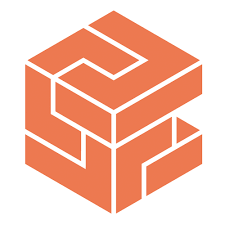
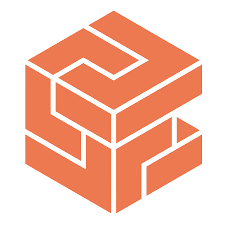
Removi o bg do pin e ajustei o mapa

diff --git a/components/Map/index.js b/components/Map/index.js
@@ -19,7 +19,7 @@ export default function Map() {
         iconUrl: "/pin.png", iconSize: [25, 25], iconAnchor: [12, 41]
     })
     return (
-        <MapContainer center={[40, 0]} zoom={5} scrollWheelZoom={false} style={{ height: 500 }}>
+        <MapContainer center={[40, 0]} zoom={5} scrollWheelZoom={true} style={{ height: 950 }} >
             <TileLayer
                 attribution='&copy; <a href="https://www.openstreetmap.org/copyright">OpenStreetMap</a> contributors'
                 url="https://{s}.tile.openstreetmap.org/{z}/{x}/{y}.png"
